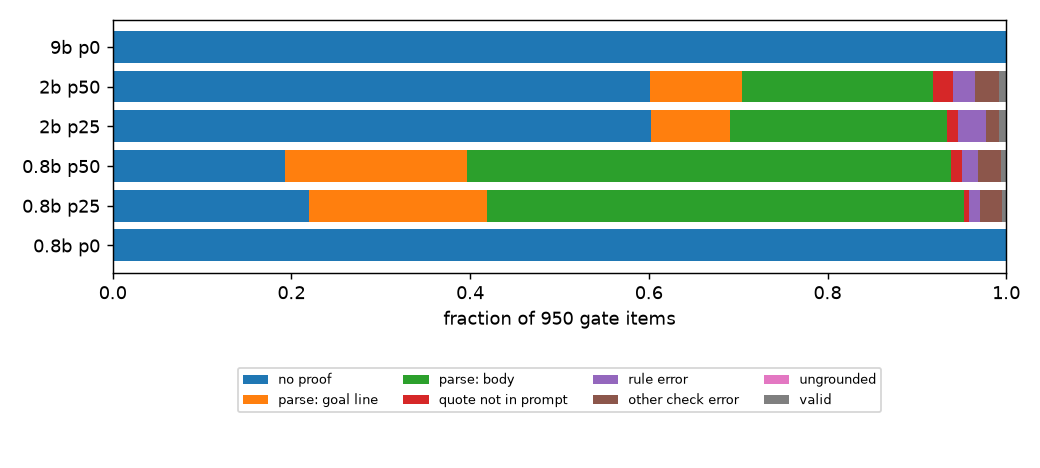
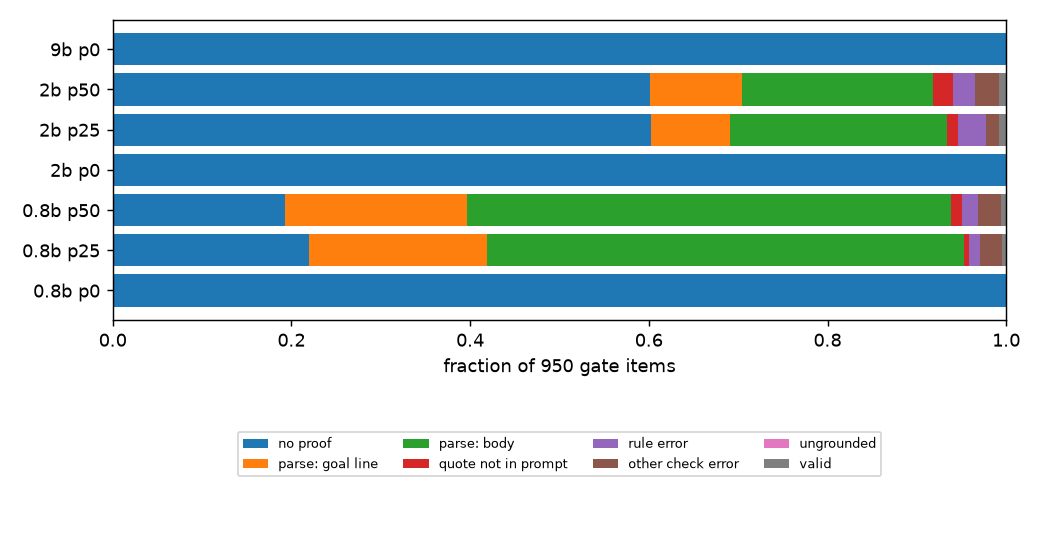
Stage-2 EI: round-1 yield, checker-guided prefix-resampling search
- EI round 1 (6938): 0.2% in-system, too sparse; per-subset pass@8 and GRPO signal in the gate report
- scripts/ei_prefix_search.py + slurm: resample from the verified prefix before the first failing line (6939)
- 2B p0 gate row; figures regenerated

Claude-Session: https://claude.ai/code/session_01WnQYXLXLcnkw9LdZ4eJP3w

Changed region(s): [[0.0, 0.0598, 0.9846, 0.7179], [0.2154, 0.7778, 0.8615, 0.8974], [0.0923, 0.0299, 0.9846, 0.0897]]

diff --git a/scripts/ei_prefix_search.py b/scripts/ei_prefix_search.py
@@ -1,0 +1,157 @@
+#!/usr/bin/env python
+"""Expert-iteration collection with checker-guided prefix resampling (line-level search).
+
+Stage-2 gate remedy, round 1 finding: whole-proof rejection sampling on the RL prompts
+(rl_signal_probe.py --source train) yields ~0.2% in-system samples, far too few to
+train on. Most failures are one bad line inside an otherwise checked proof (a `subst`
+with one citation, `calc 40 + 25`, prose after `;`). rlvl.check reports the character
+offset of the first error, and every line before it has passed the checker. So:
+
+  round 0   K samples per prompt from the policy (as rl_signal_probe --source train)
+  round r   for each unsolved prompt, take the B deepest distinct verified prefixes
+            ("<proof>\\n" + the lines before the first failing line, >= 1 step) and
+            sample K continuations from prompt + prefix
+  keep      completions (prefix + continuation) that are in_system
+
+Every kept proof is still a sample of the policy, conditioned on its own checked
+prefix; build_ei_mixture.py turns them into SFT rows. This is also the smallest
+version of the Stage-3 idea (search over proof lines with the checker as a
+step-level verifier), and stats.json records the yield per round.
+
+Output: <out-dir>/samples.jsonl (the valid completions, the rl_signal_probe schema plus
+"round" and "prefix_lines"), stats.json.
+"""
+from __future__ import annotations
+
+import argparse
+import collections
+import json
+import sys
+from pathlib import Path
+
+HERE = Path(__file__).resolve().parent
+sys.path.insert(0, str(HERE))
+from formal_chat_format import render_prompt  # noqa: E402
+from formal_rewards import components  # noqa: E402
+
+OPEN = "<proof>\n"
+
+
+def verified_prefix(prompt: str, text: str):
+    """(prefix of text up to the first failing proof line, number of checked step lines) or None."""
+    import rlvl
+    s = text.find(OPEN)
+    if s < 0:
+        return None
+    e = text.find("</proof>", s)
+    body = text[s + len(OPEN): e if e >= 0 else len(text)]
+    try:
+        res = rlvl.check(prompt, body, strict=True)
+    except Exception:
+        return None
+    bad = []
+    err = res.get("first_error") or res.get("fatal")
+    if isinstance(err, dict) and isinstance(err.get("pos"), int):
+        bad.append(err["pos"])
+    lines = res.get("lines") or []
+    bad += [ln["start"] for ln in lines if not ln.get("ok")]
+    if not bad:
+        return None
+    cut = min(bad)
+    cut = body.rfind("\n", 0, cut) + 1  # start of the line holding the first error
+    n_ok = sum(1 for ln in lines if ln.get("ok") and ln.get("kind") == "step" and ln["end"] <= cut)
+    if n_ok < 1:
+        return None
+    return text[: s + len(OPEN) + cut], n_ok
+
+
+def main():
+    ap = argparse.ArgumentParser()
+    ap.add_argument("--model", required=True)
+    ap.add_argument("--out-dir", required=True)
+    ap.add_argument("--benches", default="dolci_math,dolci_wordprob,dolci_yesno")
+    ap.add_argument("--per-bench", type=int, default=1500)
+    ap.add_argument("--k0", type=int, default=8, help="round-0 samples per prompt")
+    ap.add_argument("--rounds", type=int, default=3)
+    ap.add_argument("--beam", type=int, default=4, help="prefixes resampled per unsolved prompt and round")
+    ap.add_argument("--k", type=int, default=4, help="continuations per prefix")
+    ap.add_argument("--temperature", type=float, default=1.0)
+    ap.add_argument("--max-new-tokens", type=int, default=2048)
+    ap.add_argument("--gpu-mem", type=float, default=0.85)
+    ap.add_argument("--seed", type=int, default=1, help="prompt shuffle seed (round 1 of EI used 0)")
+    args = ap.parse_args()
+    from transformers import AutoTokenizer
+    from vllm import LLM, SamplingParams
+    from grpo_formal import build_dataset
+
+    keep = sorted(set(args.benches.split(",")))
+    tok = AutoTokenizer.from_pretrained(args.model)
+    pool = [{**r, "prompt": r["raw_prompt"]} for r in build_dataset(tok, True, None, args.seed, keep)]
+    recs, seen = [], collections.Counter()
+    for r in pool:
+        if seen[r["bench"]] < args.per_bench:
+            seen[r["bench"]] += 1
+            recs.append(r)
+    heads = [render_prompt(tok, f"<formal>\n{r['prompt']}") for r in recs]
+    llm = LLM(args.model, gpu_memory_utilization=args.gpu_mem, max_model_len=8192, seed=0,
+              limit_mm_per_prompt={"image": 0, "video": 0})
+    out = Path(args.out_dir)
+    out.mkdir(parents=True, exist_ok=True)
+    fh = open(out / "samples.jsonl", "w")
+    solved = collections.defaultdict(int)             # item index -> in-system completions
+    frontier = collections.defaultdict(dict)          # item index -> {prefix: n_ok}
+    tried = collections.defaultdict(set)
+    stats = {"n_items": len(recs), "per_bench": dict(seen), "rounds": []}
+
+    for rnd in range(args.rounds + 1):
+        jobs = []  # (item, prefix)
+        if rnd == 0:
+            jobs = [(i, "") for i in range(len(recs))]
+            k = args.k0
+        else:
+            k = args.k
+            for i in range(len(recs)):
+                if solved[i]:
+                    continue
+                cands = sorted(((n, p) for p, n in frontier[i].items() if p not in tried[i]), key=lambda x: -x[0])
+                for n, p in cands[: args.beam]:
+                    tried[i].add(p)
+                    jobs.append((i, p))
+        if not jobs:
+            break
+        sp = SamplingParams(n=k, temperature=args.temperature, max_tokens=args.max_new_tokens, seed=rnd)
+        gens = llm.generate([heads[i] + p for i, p in jobs], sp)
+        new_solved, n_valid, n_samples = collections.Counter(), 0, 0
+        for (i, p), g in zip(jobs, gens):
+            r = recs[i]
+            for o in g.outputs:
+                text = p + o.text
+                c = components(r, text)
+                n_samples += 1
+                if c["valid"]:
+                    n_valid += 1
+                    fh.write(json.dumps({"id": r["id"], "bench": r["bench"], "prompt": r["prompt"], "gold": r["gold"],
+                                         "temperature": args.temperature, "round": rnd,
+                                         "prefix_lines": p.count("\n") - 1 if p else 0, "text": text, **c}) + "\n")
+                if c["in_system"]:
+                    if not solved[i]:
+                        new_solved[r["bench"]] += 1
+                    solved[i] += 1
+                elif not solved[i] and c["has_proof"]:
+                    vp = verified_prefix(r["prompt"], text)
+                    if vp and len(vp[0]) > len(p):  # only strictly deeper prefixes
+                        frontier[i][vp[0]] = vp[1]
+        fh.flush()
+        tot = collections.Counter(recs[i]["bench"] for i in range(len(recs)) if solved[i])
+        row = {"round": rnd, "n_jobs": len(jobs), "n_samples": n_samples, "n_valid": n_valid,
+               "new_solved": dict(new_solved), "solved": dict(tot),
+               "solved_frac": {b: tot[b] / seen[b] for b in seen},
+               "n_in_system": sum(solved.values()),
+               "items_with_frontier": sum(1 for i in frontier if frontier[i] and not solved[i])}
+        stats["rounds"].append(row)
+        print(json.dumps(row), flush=True)
+        json.dump(stats, open(out / "stats.json", "w"), indent=1)
+
+
+if __name__ == "__main__":
+    main()

diff --git a/reports/2026-09-28_stage2_gate.md b/reports/2026-09-28_stage2_gate.md
@@ -31,6 +31,7 @@ Plan: `docs/research_plan.md`, "Gate to Stage 2". **Verdict: the gate fails.** O
 | 0.8B | 0 | .000 | .000 | .000 | .161 | .000 |
 | 0.8B | 25 | .780 | .047 | .004 | .128 | .003 |
 | 0.8B | 50 | .807 | .062 | .005 | .135 | .002 |
+| 2B | 0 | .000 | .000 | .000 | .203 | .000 |
 | 2B | 25 | .398 | .066 | .008 | .213 | .002 |
 | 2B | 50 | .399 | .082 | .008 | .222 | .003 |
 | 9B | 0 | .000 | .000 | .000 | .259 | .000 |
@@ -47,7 +48,7 @@ Plan: `docs/research_plan.md`, "Gate to Stage 2". **Verdict: the gate fails.** O
 
 **Observations:**
 - **The tag is obeyed less on hard math.** 2B p50 writes a proof on only 27% of math and 5% of DAPO prompts. It falls back to natural language, which is a reasonable choice since the system cannot express most of these problems. 0.8B p50 always tries, and fails.
-- **The formal mixture costs correctness under the tag.** 0.8B p50 is at .135 against .161 for 0.8B p0. Formal attempts on math are almost never grammatical.
+- **The effect on correctness depends on size.** At 0.8B the mixture costs correctness under the tag (p50 .135 against p0 .161); at 2B it helps slightly (p50 .222 against p0 .203). A likely reason, not yet tested: 2B falls back to natural language where the system cannot express the problem. Formal attempts on math are almost never grammatical.
 - **Word problems are the closest subset** (2B p50: 16% grammatical, 34% correct), but they are still almost never valid.
 
 ## 3. Why the proofs fail
@@ -85,7 +86,7 @@ ans 7 ; ...
 ## 5. Remedy (started)
 
 **Expert iteration (rejection-sampling SFT) on the RL prompt distribution.** It is cheaper and more on-distribution than new generator families, and it is the natural warm start for G2–G4.
-1. **Collect.** `rl_signal_probe.py --source train` samples 8 completions at T = 1 on 1,500 RL training prompts per subset (math, wordprob, yesno). Job 6938 does this for 2B p50.
+1. **Collect.** `rl_signal_probe.py --source train` samples 8 completions at T = 1 on 1,500 RL training prompts per subset (math, wordprob, yesno). Job 6938 did this for 2B p50 (result below).
 2. **Build.** `scripts/data/build_ei_mixture.py` keeps the in-system samples: valid, grounded, ans = Answer = reference, at most 2 per prompt. It adds 20k replay rows from the p50 mixture.
 3. **Train and repeat.** Continue SFT from p50 (`gruenau_formal_mix_train_2026-09-25.slurm` with `INIT_MODEL`/`MIX_DIR`). Re-run the gate, then repeat until the gate passes or the yield plateaus.
 
@@ -93,7 +94,33 @@ ans 7 ; ...
 - If EI yields too few proofs: new generator families for multi-sentence word problems (rates, fractions of quantities, multi-step `subst`), and a feasibility yes/no family.
 - The gvc arm (G3) has a denser grammatical term, which gives signal earlier than validity alone.
 
+### Round 1 result: whole-proof rejection sampling is too sparse
+Job 6938 (2B p50, 8 samples at T = 1 on 3,191 RL training prompts; `ei_collect_r1/probe.json`):
+
+| subset | prompts | has proof (mean) | grammatical (mean / pass@8) | valid (pass@8) | in-system (pass@8) | GRPO signal: correct / correct×valid / gvc / valid |
+|---|---|---|---|---|---|---|
+| math | 1500 | .24 | .006 / .028 | .001 | .000 | .32 / .00 / .33 / .00 |
+| wordprob | 1200 | .48 | .090 / .299 | .027 | .021 | .59 / .02 / .68 / .03 |
+| yesno | 491 | .29 | .024 / .149 | .006 | .002 | .73 / .00 / .74 / .01 |
+| all | 3191 | .34 | .040 / .149 | .012 | .008 | .48 / .01 / .53 / .01 |
+
+- 57 in-system samples from 26 prompts (25 word problems, 1 yes/no); 0.2% of 25,528 samples. Too few to train on.
+- **GRPO signal.** Only 1% of groups have a non-constant correct×valid or valid reward, so G2 and G4 would learn from about one prompt per 32-prompt step. The gvc arm (G3) has signal on 53% of groups, but almost all of it comes from the correct and grammatical terms.
+- Math is out of reach for this policy (grammatical pass@8 = 2.8%). Word problems are the only subset with a foothold.
+
+### Round 1b: checker-guided prefix resampling (running)
+Most failed proofs break on a single line inside an otherwise checked proof: a `subst` with one citation, `calc 40 + 25` in place of a line citation, or prose after `;`. `rlvl.check` returns the character offset of the first error, and every line before it has passed the checker.
+
+`scripts/ei_prefix_search.py` (job 6939) uses this:
+- **Round 0:** 8 samples per prompt.
+- **Rounds 1–3:** for each unsolved prompt, take the 4 deepest distinct verified prefixes (at least one checked step) and sample 4 continuations from prompt + prefix.
+- **Keep:** the in-system completions.
+
+Offline, 38% of the failed word-problem proofs in the gate set have such a prefix. The kept proofs are still samples of the policy, conditioned on its own checked lines.
+
+This is also the smallest version of Stage 3: search over proof lines with the checker as a step-level verifier. `stats.json` records the solved fraction per round, which gives a first estimate of how much a search over lines adds on top of sampling.
+
 ## Pending
-- Sampling-probe numbers (6936/6937).
-- EI round 1 yield (6938).
-- Gate for 2B p0 (6928) and 9B p50 (6933).
+- Sampling-probe numbers on the gate set (6936/6937).
+- Prefix-search yield (6939), then the EI round-1 SFT and gate.
+- Gate for 9B p50 (6933).

diff --git a/docs/running_experiments.md b/docs/running_experiments.md
@@ -7,11 +7,12 @@ This file is the live Slurm dashboard. Historical details live in `docs/operatio
 ## Stage-2 gate + expert-iteration bootstrap 2026-09-28: running
 
 - **Greedy gate** (`TEST_JSONL=.../rl_gate_dolci_instruct_20260928/test.jsonl OUT_NAME=rl_gate_dolci`):
-  - Done: 0.8B p0/p25/p50, 2B p25/p50, 9B p0.
-  - Pending: 6928 (2B p0), 6933 (9B p50, afterok 6839).
+  - Done: 0.8B p0/p25/p50, 2B p0/p25/p50, 9B p0.
+  - Pending: 6933 (9B p50, afterok 6839).
 - **Sampling probe** (`scripts/slurm/jobs/rl_signal_probe.slurm`, gruenau12 L40): 6936 (0.8B p50), 6937 (2B p50). K=16 samples at T=0.6/1.0, 100 items per subset.
-- **EI collection round 1:** 6938 (2B p50, gruenau12). 8 samples per prompt at T=1 on 1,500 RL training prompts each from math, wordprob and yesno. Output: `<run>/ei_collect_r1/samples.jsonl`.
-- **Next:** `build_ei_mixture.py` → continue SFT from 2B p50 (`INIT_MODEL`, `MIX_DIR`, `RUN_NAME` on the train slurm) → re-run the gate.
+- **EI collection round 1:** 6938 (2B p50, gruenau12). 8 samples per prompt at T=1 on 1,500 RL training prompts each from math, wordprob and yesno. Output: `<run>/ei_collect_r1/samples.jsonl`. Done: 57 in-system samples on 26 prompts (0.2%), too few.
+- **EI round 1b, prefix-resampling search:** 6939 (2B p50, gruenau12, `scripts/slurm/jobs/ei_prefix_search.slurm`). Resamples continuations from the checked prefix before the first failing line, for 3 rounds. Output: `<run>/ei_search_r1/{samples.jsonl,stats.json}`.
+- **Next:** `build_ei_mixture.py --samples ei_collect_r1/samples.jsonl ei_search_r1/samples.jsonl` → continue SFT from 2B p50 (`INIT_MODEL`, `MIX_DIR`, `RUN_NAME` on the train slurm) → re-run the gate.
 
 ## Formal mixture format-tagged benchmarks 2026-09-26: running (submitted 2026-09-28)
 

diff --git a/docs/project_log.md b/docs/project_log.md
@@ -12,6 +12,9 @@ Short dated notes for useful operational events, cleanup decisions, results upda
 - **Report:** `reports/2026-09-28_stage1_interim.md`.
 - **Tooling:** matplotlib installed in `.venv_rlvl_vllm`; in-domain curves regenerated.
 - **Stage-2 gate failed:** greedy in_system on 950 held-out Dolci-RL prompts is 0.2–0.3% (0.8B/2B p25/p50). Report: `reports/2026-09-28_stage2_gate.md`.
+- **EI round 1 (whole-proof rejection sampling, 6938) is too sparse:** 57 in-system samples out of 25,528 (26 prompts). pass@8 in_system is 2.1% on wordprob, 0.2% on yesno and 0 on math. Only 1% of GRPO groups have a non-constant validity reward.
+- **Checker-guided prefix resampling (6939):** resamples from the verified prefix before the first failing line. `scripts/ei_prefix_search.py`.
+- **2B p0 gate:** correct .203, below 2B p50 at .222. At 0.8B the order is reversed.
   - Remedy: expert-iteration SFT on in-system samples (`scripts/rl_signal_probe.py --source train`, `scripts/data/build_ei_mixture.py`).
   - Sampling probes: 6936/6937. EI collection round 1: 6938 (2B p50).
 - **Scoring:** a loose `**Answer:**` / "the answer is" fallback was added to `eval_formal_bench_vllm.py`, and finished runs were re-scored (`scripts/rescore_formal_bench.py`).
